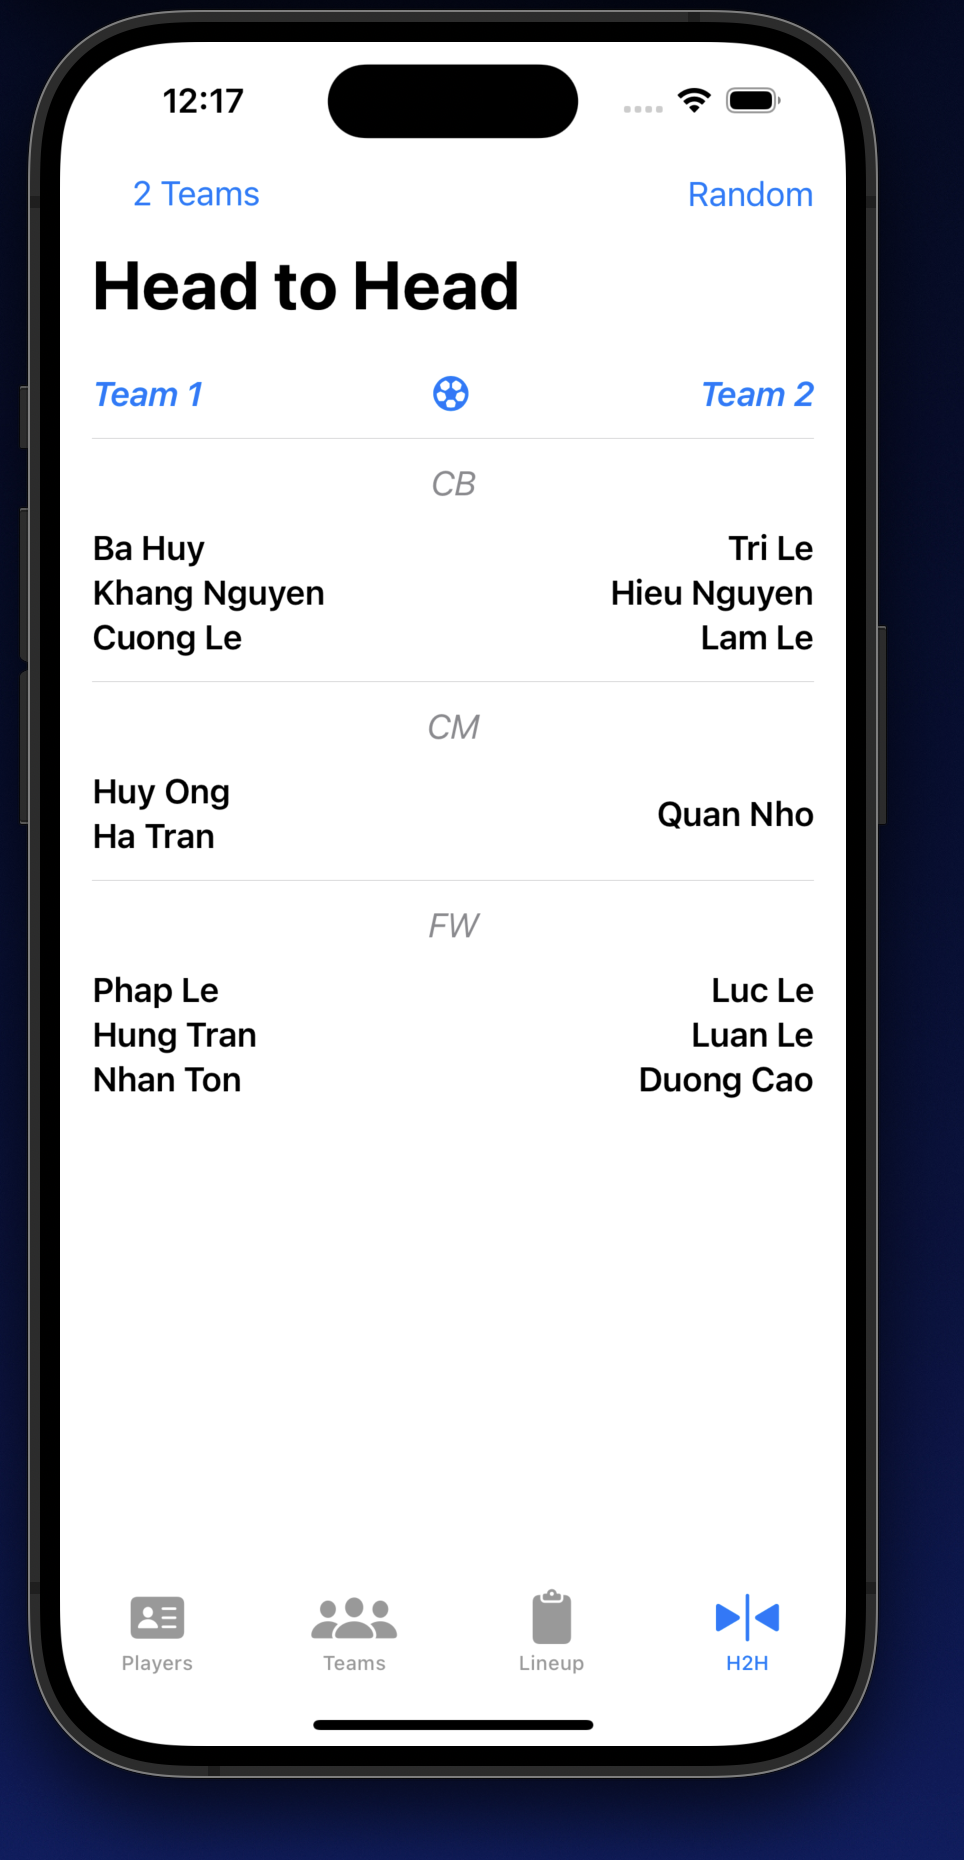
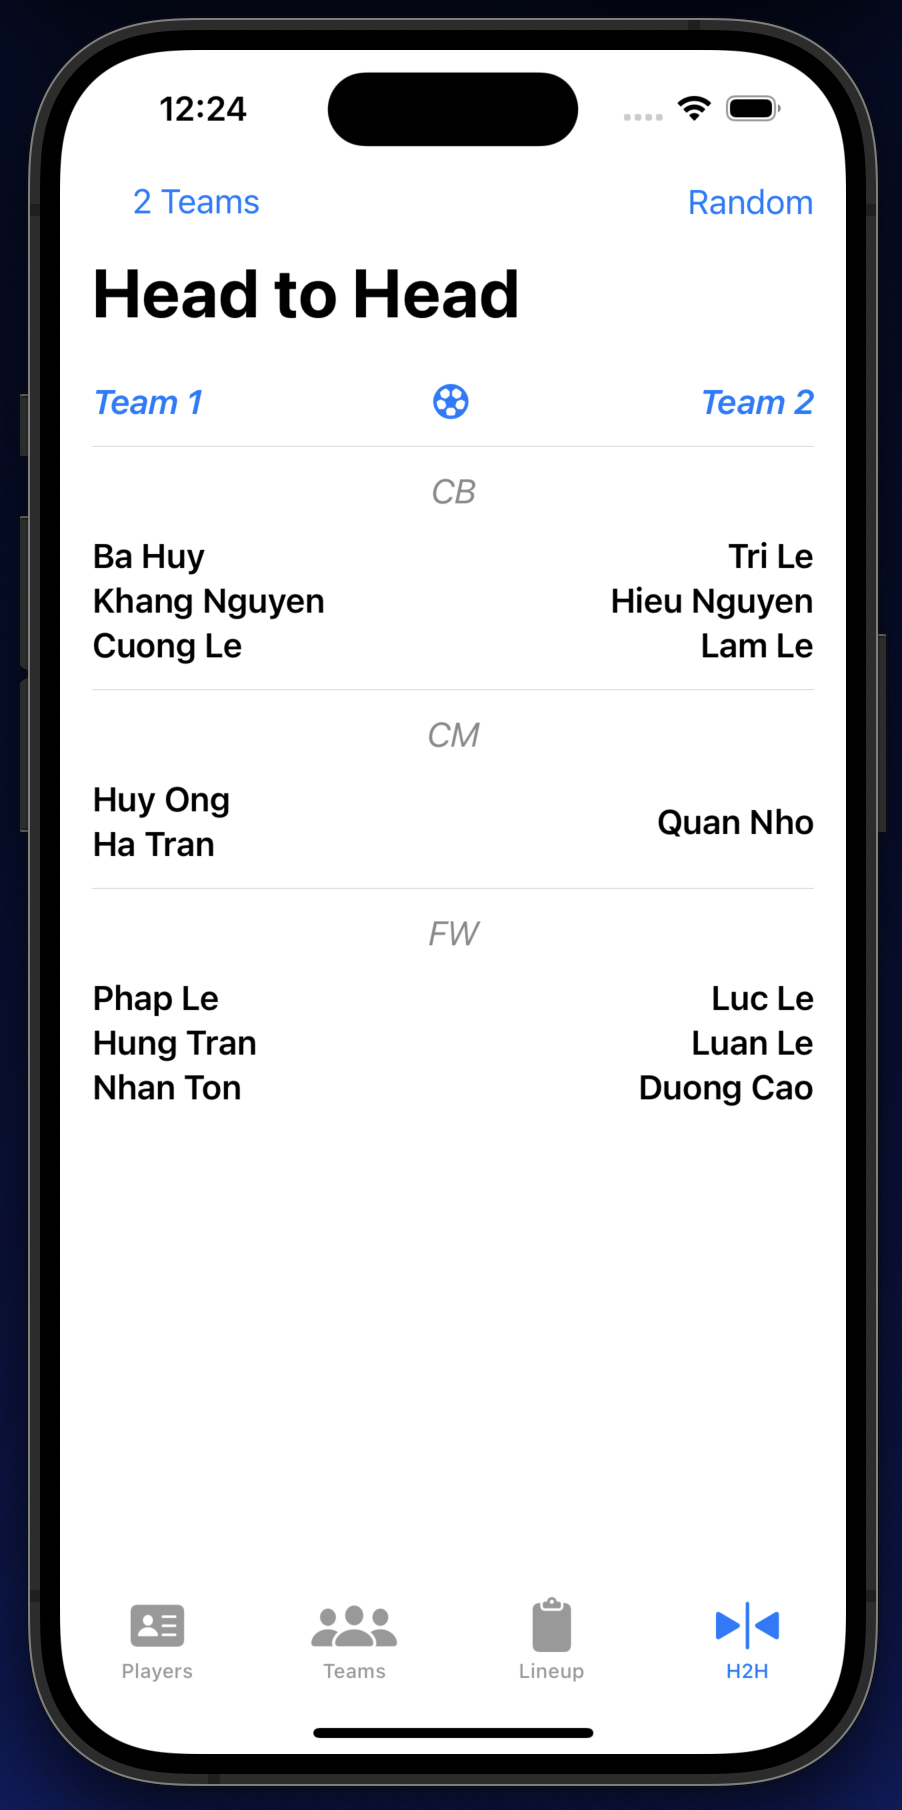
Updated

diff --git a/README.md b/README.md
@@ -7,25 +7,25 @@ Welcome to the **VGS** (Viet Golden State Soccer) app, your ultimate companion f
 ## Features
 
 ### Player Management
-<img src="assets/players.png" alt="Image Alt Text" width="200" height="400">
+<img src="assets/players.png" alt="Image Alt Text" width="200" height="400" style="border-radius: 15px;">
 
 - Easily keep track of all your soccer players, including their names, positions, and other relevant details.
 - Organize player information efficiently, ensuring you have the latest updates on your squad.
 
 ### Team Distribution
-<img src="assets/teams.png" alt="Image Alt Text" width="200" height="400">
+<img src="assets/teams.png" alt="Image Alt Text" width="200" height="400" style="border-radius: 15px;">
 
 - Create teams with flexibility, distributing players equally among teams of 2, 3, or 4 players.
 - Optimize team composition based on player positions and skill levels to enhance the gaming experience.
 
 ### Whiteboard for Lineup Players
-<img src="assets/lineup.png" alt="Image Alt Text" width="200" height="400">
+<img src="assets/lineup.png" alt="Image Alt Text" width="200" height="400" style="border-radius: 15px;">
 
 - Plan your game strategy with a built-in whiteboard feature.
 - Arrange players on the field by dragging and dropping them into your desired positions, visualizing your team's formation.
 
 ### Head-to-Head View
-<img src="assets/h2h.png" alt="Image Alt Text" width="200" height="400">
+<img src="assets/h2h.png" alt="Image Alt Text" width="200" height="400" style="border-radius: 15px;">
 
 - Track head-to-head matches with ease.
 - Record scores, game details, and player performance to analyze game statistics and improve your team's performance.
